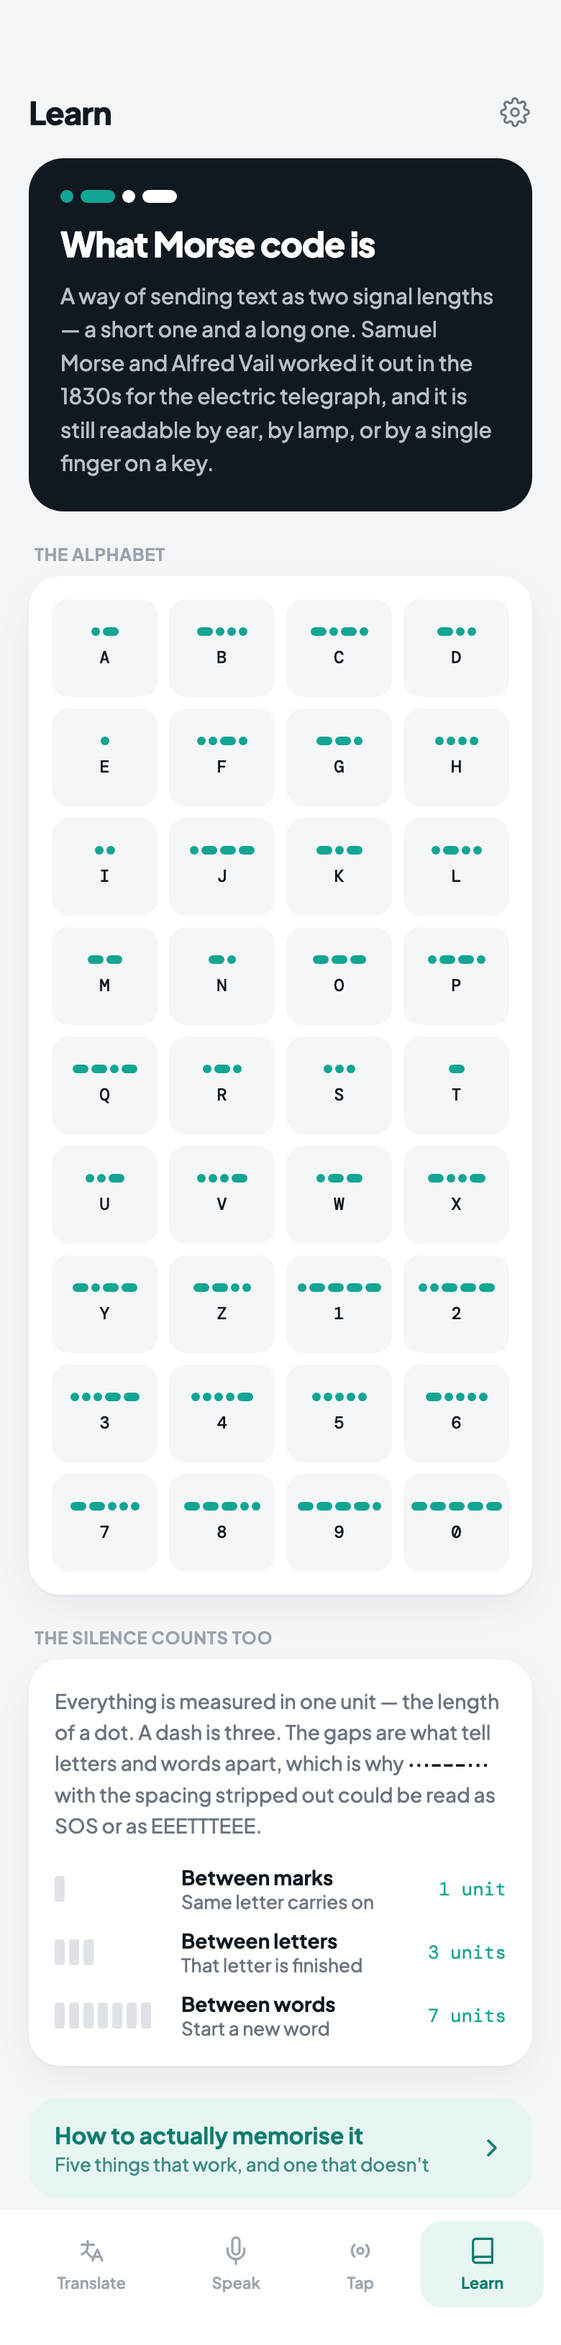
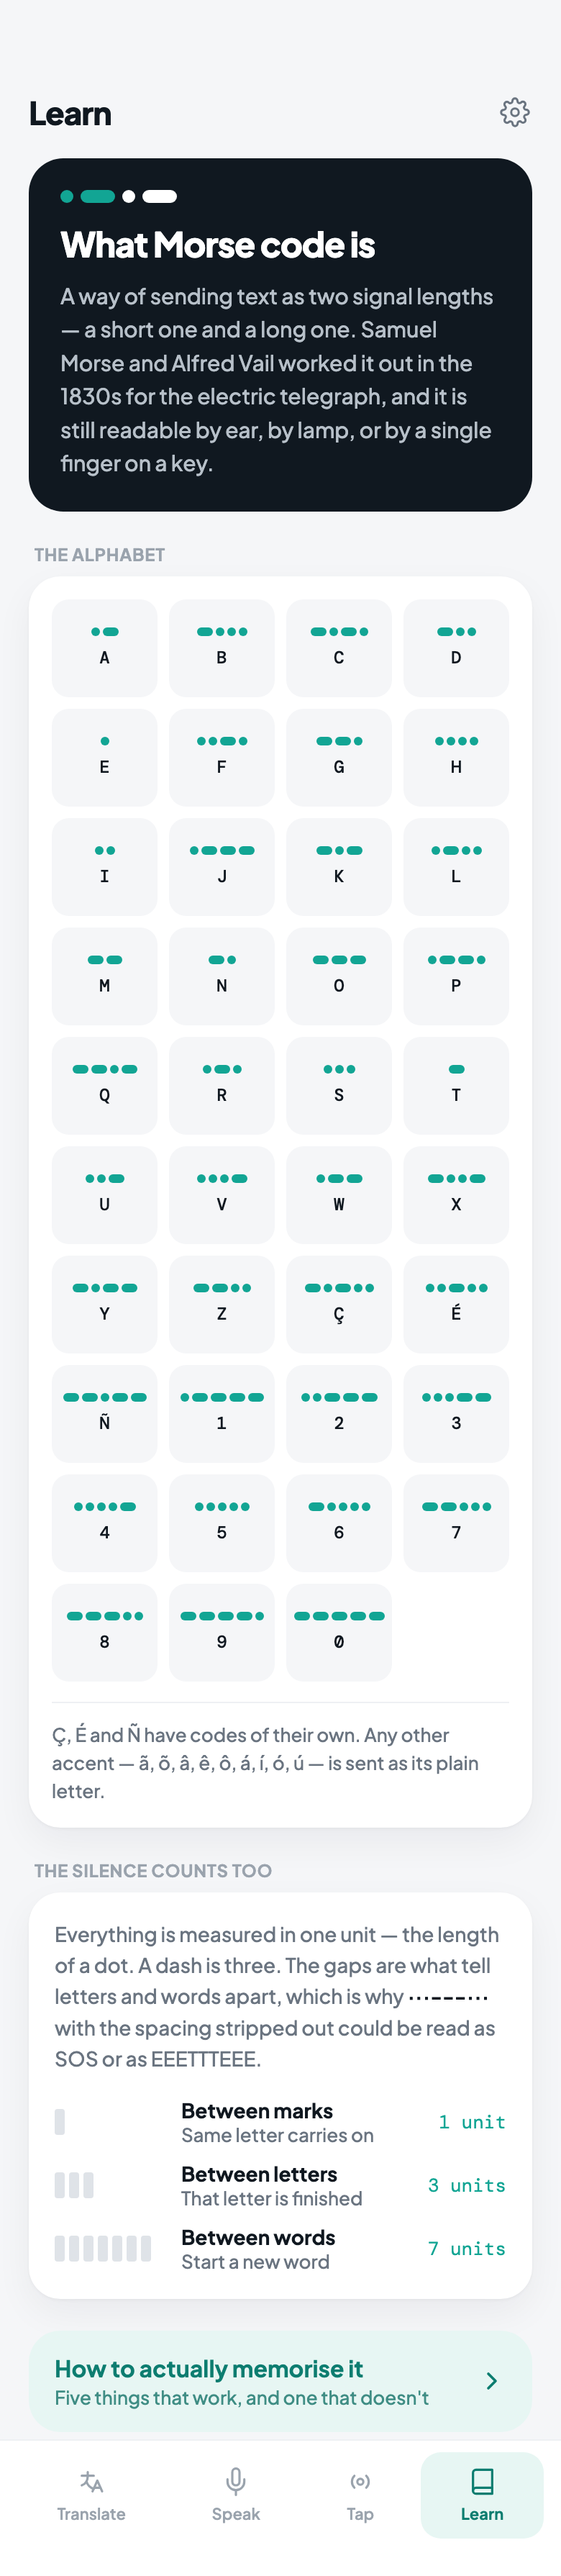
feat: settle accented letters — support Ç, É and Ñ, fold the rest
Ç (-.-..), É (..-..) and Ñ (--.--) have real ITU codes and are now
supported; every other diacritic is sent as its base letter. Ñ and Ç are
distinct letters rather than decoration (año ≠ ano), and the rest have
no standard code, so inventing one would be unreadable to any other
operator.

This makes the round-trip invariant conditional, and FOUNDATION.md now
says so explicitly: decode(encode(text)) equals normaliseForMorse(text)
uppercased, not text uppercased. Written the naive way the test passes
only for ASCII and misrepresents what the encoder does.

All three letters are in the Learn alphabet, phone and tablet, with the
rule stated underneath the grid. Learn grew a row (frame 1630 -> 1790);
the tablet grid tightened instead, since 820 is a real device height.

Adds contact sheets of every artboard for quick reference.

diff --git a/design/screens/TabletLearn.dc.html b/design/screens/TabletLearn.dc.html
@@ -97,9 +97,9 @@
           <span style="font-size: 13px; font-weight: 700; letter-spacing: 0.03em; color: #9aa3ad;">THE ALPHABET</span>
           <span style="font-size: 13px; font-weight: 500; color: #9aa3ad;">Tap any letter to hear it</span>
         </div>
-        <div style="display: grid; grid-template-columns: repeat(6, minmax(0, 1fr)); gap: 10px;">
+        <div style="display: grid; grid-template-columns: repeat(6, minmax(0, 1fr)); gap: 9px;">
           <sc-for list="{{ alphabet }}" as="ltr" hint-placeholder-count="18">
-            <div style="display: flex; flex-direction: column; align-items: center; justify-content: center; gap: 9px; min-height: 62px; padding: 10px 4px; background: #f5f6f8; border-radius: 16px;">
+            <div style="display: flex; flex-direction: column; align-items: center; justify-content: center; gap: 8px; min-height: 56px; padding: 8px 4px; background: #f5f6f8; border-radius: 16px;">
               <div style="display: flex; gap: 3px; align-items: center; height: 8px;">
                 <sc-for list="{{ ltr.marks }}" as="mark" hint-placeholder-count="3">
                   <sc-if value="{{ mark.dot }}" hint-placeholder-val="{{ true }}">
@@ -130,6 +130,7 @@ class Component extends DCLogic {
       H: '....', I: '..', J: '.---', K: '-.-', L: '.-..', M: '--', N: '-.',
       O: '---', P: '.--.', Q: '--.-', R: '.-.', S: '...', T: '-', U: '..-',
       V: '...-', W: '.--', X: '-..-', Y: '-.--', Z: '--..',
+      'Ç': '-.-..', 'É': '..-..', 'Ñ': '--.--',
       1: '.----', 2: '..---', 3: '...--', 4: '....-', 5: '.....',
       6: '-....', 7: '--...', 8: '---..', 9: '----.', 0: '-----',
     };
@@ -138,7 +139,7 @@ class Component extends DCLogic {
   renderVals() {
     const t = this.table();
     return {
-      alphabet: 'ABCDEFGHIJKLMNOPQRSTUVWXYZ1234567890'.split('').map((ch) => ({
+      alphabet: 'ABCDEFGHIJKLMNOPQRSTUVWXYZÇÉÑ1234567890'.split('').map((ch) => ({
         char: ch,
         marks: t[ch].split('').map((m) => ({ dot: m === '.', dash: m === '-' })),
       })),

diff --git a/design/screens/Learn.dc.html b/design/screens/Learn.dc.html
@@ -15,7 +15,7 @@
     button { font: inherit; border: 0; background: none; cursor: pointer; text-align: left; }
   </style>
 </helmet>
-<div style="width: 390px; height: 1630px; background: #f5f6f8; color: #101820; font-family: 'Plus Jakarta Sans', 'Avenir Next', sans-serif; display: flex; flex-direction: column; overflow: hidden;">
+<div style="width: 390px; height: 1790px; background: #f5f6f8; color: #101820; font-family: 'Plus Jakarta Sans', 'Avenir Next', sans-serif; display: flex; flex-direction: column; overflow: hidden;">
 
   <div style="height: 54px; flex-shrink: 0;"></div>
 
@@ -59,6 +59,7 @@
             </div>
           </sc-for>
         </div>
+        <div style="border-top: 1px solid #eef0f3; margin-top: 14px; padding-top: 12px; font-size: 13px; font-weight: 500; line-height: 1.5; color: #6a7480;">Ç, É and Ñ have codes of their own. Any other accent — ã, õ, â, ê, ô, á, í, ó, ú — is sent as its plain letter.</div>
       </div>
     </div>
 
@@ -118,7 +119,7 @@
 
 </div>
 </x-dc>
-<script data-dc-script data-props='{"$preview":{"width":390,"height":1630}}'>
+<script data-dc-script data-props='{"$preview":{"width":390,"height":1790}}'>
 class Component extends DCLogic {
   table() {
     return {
@@ -126,6 +127,7 @@ class Component extends DCLogic {
       H: '....', I: '..', J: '.---', K: '-.-', L: '.-..', M: '--', N: '-.',
       O: '---', P: '.--.', Q: '--.-', R: '.-.', S: '...', T: '-', U: '..-',
       V: '...-', W: '.--', X: '-..-', Y: '-.--', Z: '--..',
+      'Ç': '-.-..', 'É': '..-..', 'Ñ': '--.--',
       1: '.----', 2: '..---', 3: '...--', 4: '....-', 5: '.....',
       6: '-....', 7: '--...', 8: '---..', 9: '----.', 0: '-----',
     };
@@ -133,7 +135,7 @@ class Component extends DCLogic {
 
   renderVals() {
     const t = this.table();
-    const order = 'ABCDEFGHIJKLMNOPQRSTUVWXYZ1234567890'.split('');
+    const order = 'ABCDEFGHIJKLMNOPQRSTUVWXYZÇÉÑ1234567890'.split('');
     return {
       alphabet: order.map((ch) => ({
         char: ch,

diff --git a/FOUNDATION.md b/FOUNDATION.md
@@ -296,11 +296,33 @@ afterthought:
   390pt and collided at 360pt in Portuguese. Check narrow widths in the longest locale,
   not just the default one
 
-⚠ **Accented letters are an open domain decision.** ITU Morse defines `Ç` (`-.-..`) and
-`Ñ` (`--.--`), but has no code for `Ã Õ Â Ê Ô Á Í Ó Ú`. The encoder must either strip
-diacritics to the base letter or map only the few with real codes — decide it in
-`core/domain`, and make `decode(encode(text))` state the chosen rule explicitly, because
-the round-trip invariant cannot hold verbatim once diacritics are stripped.
+### Accented letters (decided 2026-08-21)
+
+**Support the three ITU-coded letters these locales actually need; strip every other
+diacritic to its base letter.**
+
+| Input | Sent as | Why |
+| --- | --- | --- |
+| `Ç` | `-.-..` | ITU-coded, and Portuguese needs it |
+| `É` | `..-..` | ITU-coded, common in both pt and es |
+| `Ñ` | `--.--` | ITU-coded, and `año` ≠ `ano` |
+| `Ã Õ Â Ê Ô Á Í Ó Ú Ü À` … | base letter | ITU defines no distinct code |
+
+Stripping `Ñ` would be wrong — it is a distinct letter in Spanish, not an accent — and
+`Ç` likewise in Portuguese. The rest have no standard code, so inventing one would make
+the output unreadable to any other Morse operator.
+
+This makes the round-trip invariant **conditional**, and the test must say so:
+
+```ts
+decode(encode(text)) === normaliseForMorse(text).toUpperCase();
+```
+
+where `normaliseForMorse` keeps `Ç É Ñ` and folds all other diacritics
+(NFD, drop combining marks). Do **not** write the test as
+`decode(encode(text)) === text.toUpperCase()` — it passes only for ASCII input and
+silently misrepresents what the encoder does. `normaliseForMorse` is itself a pure
+`core/domain` function and deserves its own property tests.
 
 ### Decoding: Morse → text (decided 2026-08-21)
 

diff --git a/design/README.md b/design/README.md
@@ -81,10 +81,12 @@ and hint on one line with no shrink protection — fine in English at 390pt, col
 **Check narrow widths in the longest locale, not the default one.** Every phone frame is
 verified at 360pt as well as 390pt.
 
-⚠ Open: accented letters. ITU Morse defines `Ç` (`-.-..`) and `Ñ` (`--.--`) but has no
-code for `Ã Õ Â Ê Ô Á Í Ó Ú`. Strip diacritics to the base letter, or map only the few
-with real codes? A `core/domain` decision — and it changes what the round-trip invariant
-`decode(encode(text))` can claim.
+**Accented letters — decided.** `Ç` (`-.-..`), `É` (`..-..`) and `Ñ` (`--.--`) have real
+ITU codes and are supported; every other diacritic is sent as its base letter. `Ñ` and
+`Ç` are distinct letters rather than decoration (`año` ≠ `ano`), and the rest have no
+standard code, so inventing one would be unreadable to any other operator. All three
+appear in the Learn alphabet, with a footnote stating the rule. See `FOUNDATION.md`
+§Localisation for what this does to the round-trip invariant.
 
 ## Not yet designed
 
